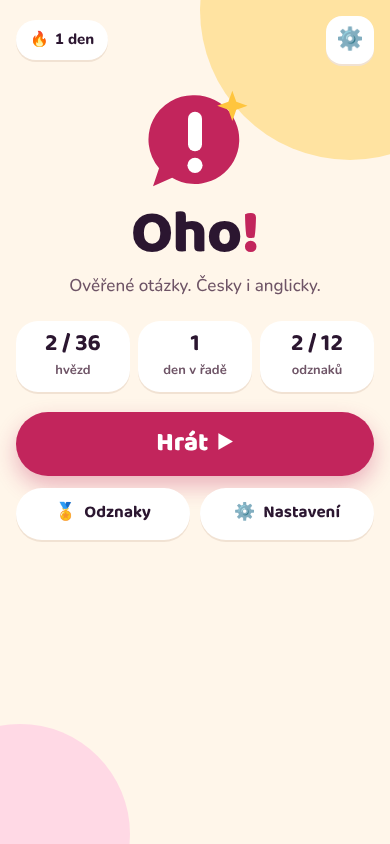
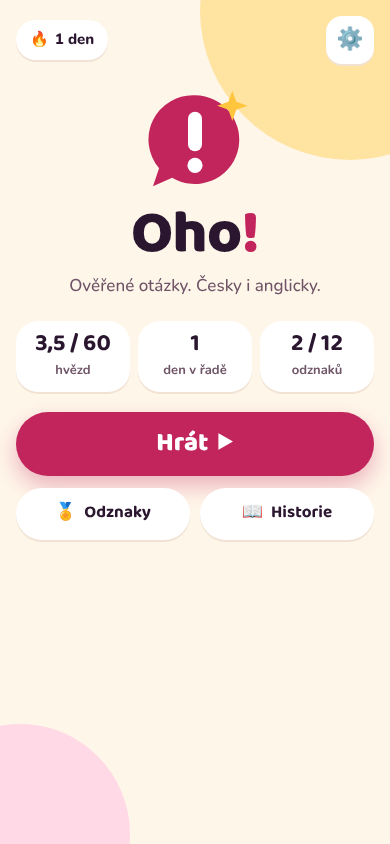
Připomínky Davida po Fázi 2: D-013, změna SPEC, HANDOFF, PLAN, nové náhledy
Claude-Session: https://claude.ai/code/session_01GAFDRzFjeq7p8LAcFfhWiT

Changed region(s): [[0.5846, 0.5853, 0.8923, 0.6161], [0.0923, 0.3697, 0.2769, 0.4313]]

diff --git a/docs/DECISIONS.md b/docs/DECISIONS.md
@@ -1,6 +1,20 @@
 # DECISIONS – Kvízová webová aplikace
 Nejnovější nahoře. Každé rozhodnutí jednou; pozdější změna = nový záznam s odkazem na původní.
 
+## D-013 · 2026-11-05 · Nová pravidla: 5 hvězd po půlkách, každá obtížnost jen jednou (mění SPEC)
+- **Rozhodnutí (David, připomínky po Fázi 2):**
+  - **5 hvězd místo 3:** každých celých 10 % správně = půl hvězdy (10 % = ½ ★, 20 % = ★, … 90 % = 4½ ★, 100 % = 5 ★). Počítá se celočíselně `⌊správně × 10 / počet⌋` půlhvězd, bez zaokrouhlování nahoru.
+  - **Každou obtížnost lze zahrát jen jednou.** Dohrané kolo nejde opakovat – jinak by šlo snadno sbírat odznaky a odemykat obtížnosti. Místo „Znovu“ je **Prohlédnout odpovědi**: přehled všech otázek kola s tvou a správnou odpovědí a vysvětlením (i s překladem podle nastavení), plus nová obrazovka **Historie** (z Domů) se všemi dohranými koly.
+  - **Odemčení další obtížnosti od 70 %** (dřív ★★). **Pod 70 % zůstane další obtížnost v tématu zamčená natrvalo** (Davidova volba z nabídnutých možností „konec tématu / jedna druhá šance / odemknout vždy“).
+  - **Smazat pokrok zrušeno** – šlo by jím pravidlo „jen jednou“ obejít.
+  - **O hře:** bez textu o ověření faktů a bez zmínky o reklamě. Nově tam je krátké vysvětlení pravidel.
+- **Dopočteno agentem:**
+  - Rozehrané kolo se ukládá po každé odpovědi (`kviz.v1.pokrok` → `rozehrano`). Odchod ani obnovení stránky ho nezahodí, pokračuje se stejnými otázkami – jinak by šlo kolo po chybě opustit a začít znovu. Proto zmizel i dotaz „Ukončit kolo?“.
+  - Ukládá se, jak hráč na každou otázku odpověděl (pro přehled). Starý formát pokroku (verze 1, 3 hvězdy) se zahodí – hrál jen David při testu.
+  - „Dohrané téma“ = všechny zobrazené obtížnosti odehrané (dřív „aspoň ★ ve všech“). Odznaky: Bez chyby = 100 %, Na vrcholu = 70 % v Těžké, Objevitel = 3 témata dohraná až po Těžkou, Bez nápovědy = 70 %+.
+- **Mění:** SPEC (Obrazovky 5, 7, 9; Pravidla hry), D-010 (klíč `posledni`, mazání pokroku), D-011 (podmínky odznaků).
+- **Kdo:** David (pravidla), prompt 01 (doplnění)
+
 ## D-012 · 2026-11-05 · Co z „chytlavosti“ je už ve Fázi 2
 - **Rozhodnutí:** Fáze 2 obsahuje i jednoduché verze věcí, které PLAN řadí do Fáze 3, protože bez nich by obrazovky 6–9 nefungovaly celé: obrazovka Odznaky a vyhodnocování odznaků (seznam D-011), krátké zvuky generované ve Web Audio (správně / špatně / konec kola), vibrace (`navigator.vibrate`, kde ho prohlížeč má), vypínače v Nastavení, drobné animace (hvězdy na výsledku, „zatřesení“ u špatné odpovědi) a logo jako ikona v záložce. Všechny animace vypíná systémové „omezit pohyb“.
 - **Pro Fázi 3 zůstává:** konfety při ★★★, výraznější přechody mezi obrazovkami a animace, vyladění zvuků, upozornění na nový odznak během hry, Open Graph obrázek a náhled odkazu, finální kontrola seznamu odznaků s Davidem.

diff --git a/docs/PLAN.md b/docs/PLAN.md
@@ -31,7 +31,7 @@ Prostředí: **A** = Claude Code, Cloud environment (jen repozitář) · **B** =
 - ☑ (2026-11-05) Automatický průchod hrou a screenshoty 5 šířek jako opakovatelný nástroj `tools/pruchod.py` (Playwright); příkaz doplnit do `CLAUDE.md` (spoléhá na něj i prompt 03 a kontrola). Opravit nálezy. – 65 kontrol prošlo, nic nepřetéká.
 - ◐ (2026-11-05) Nasadit (push do `main`, případně pull request ke sloučení) a ověřit online. – kód je v `main`; online ověření z cloudu nejde (síť nepustí github.io), ověří David na mobilu.
 
-**⏸ Kontrolní bod:** David vyzkouší aplikaci na svém mobilu a připomínky napíše v téže relaci (nebo pod prompt v příští relaci); zapsat je do HANDOFF a zapracovat na začátku Fáze 3. → HANDOFF, konec sezení.
+**⏸ Kontrolní bod:** ◐ (2026-11-05) 1. kolo připomínek zapracované (D-013 – nová pravidla hvězd a jedné hry na obtížnost); čeká se na vyzkoušení nové verze. David vyzkouší aplikaci na svém mobilu a připomínky napíše v téže relaci (nebo pod prompt v příští relaci); zapsat je do HANDOFF a zapracovat na začátku Fáze 3. → HANDOFF, konec sezení.
 
 ## Fáze 3 – Chytlavost (prompt 01, prostředí A)
 - ☐ Připomínky Davida z Fáze 2.
@@ -52,4 +52,4 @@ Prostředí: **A** = Claude Code, Cloud environment (jen repozitář) · **B** =
 - ☐ Závěrečná zpráva Davidovi + zaškrtnout kritéria přijetí ve SPEC.
 
 ## Stav
-Poslední aktualizace: 2026-11-05 · Aktuální fáze: 2 hotová → ⏸ kontrolní bod (David zkouší aplikaci na mobilu) · Blokováno: nic; online ověření z cloudu nejde (síť nepustí github.io)
+Poslední aktualizace: 2026-11-05 · Aktuální fáze: 2 hotová, připomínky D-013 zapracované → ⏸ kontrolní bod (David zkouší novou verzi na mobilu) · Blokováno: nic; online ověření z cloudu nejde (síť nepustí github.io)

diff --git a/docs/SPEC.md b/docs/SPEC.md
@@ -47,6 +47,8 @@ Veřejná webová aplikace, ve které kdokoli hraje kvízy z Davidových ověře
 9. **Nastavení** – Můj jazyk (rozhraní), Jazyk otázek, Překlad (vždy / na ťuknutí / vypnuto), Zvuky, Vibrace, „O hře“ (krátce: otázky jsou ověřené, pokrok se ukládá jen v tomto zařízení, nic se nesleduje), Smazat pokrok (potvrzení uvnitř aplikace, ne systémovým dialogem prohlížeče).
 
 ## Pravidla hry
+> **Změna 2026-11-05 (DECISIONS D-013, Davidovo rozhodnutí) – platí místo starších bodů níže:** hvězd je **5**, každých celých 10 % správně = **půl hvězdy** (100 % = 5 ★). **Každou obtížnost lze zahrát jen jednou**; dohrané kolo jde jen **prohlédnout** (otázky, tvoje a správná odpověď, vysvětlení) – z výsledku, z obrazovky Obtížnost a z nové obrazovky **Historie**. Další obtížnost se odemkne **od 70 %**; pod 70 % zůstane v tématu **zamčená natrvalo**. Rozehrané kolo se ukládá průběžně a pokračuje se v něm. **Smazat pokrok** v Nastavení **není**. „O hře“ neobsahuje text o ověření faktů ani o reklamě.
+
 - **Kolo** = až 10 otázek jedné obtížnosti jednoho tématu. Má-li obtížnost víc než 10 otázek, vyber náhodně 10. Pořadí otázek v kole je náhodné, **pořadí možností A–D zůstává jako v datech** (např. čísla jsou v datech seřazená a přeházení by působilo zmateně).
 - **Hvězdy za kolo:** ★ od 50 %, ★★ od 70 %, ★★★ od 90 % správně (procento = správně / počet otázek v kole, bez zaokrouhlování; u kratších kol to znamená přísnější hodnocení – např. ze 3 otázek dá ★★ až 3/3). Ukládá se nejlepší výsledek.
 - **Odemykání:** Střední po ★★ v Lehké, Těžká po ★★ ve Střední, vždy v rámci tématu.
